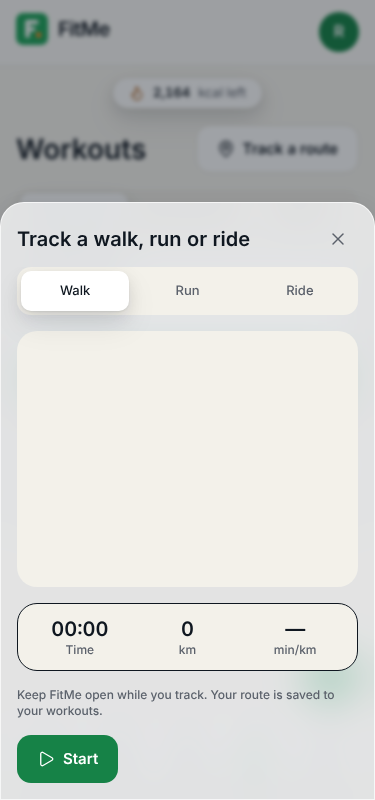
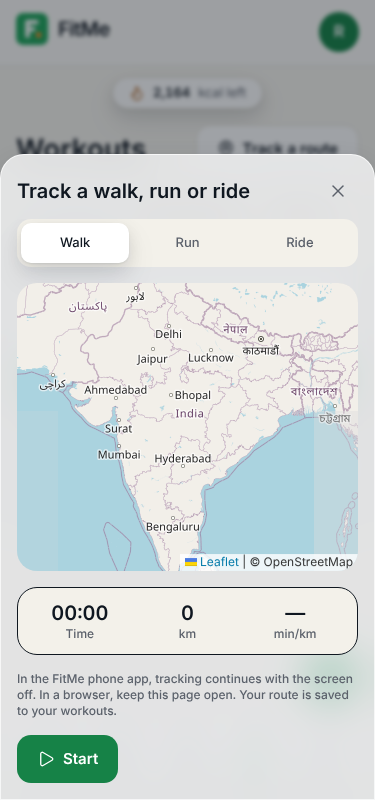
Verification and CI: admin per-role browser check, store screenshots, background-route text, jobs workflow keyless auth, functions deployed one at a time in CI; v4 config migration script
Claude-Session: https://claude.ai/code/session_01SHbAHyHZhLwJXntA7b2gSg

diff --git a/functions/src/scripts/migrate-v4.ts b/functions/src/scripts/migrate-v4.ts
@@ -1,0 +1,67 @@
+/**
+ * v4 config migration (never touches user data, payments or subscriptions):
+ *  - appConfig/pricing: adds tax, payment methods and on/off to each market where missing (prices unchanged).
+ *  - appConfig/policy: created if missing; Free Launch Mode switched on (launch decision), all countries.
+ * Each change is versioned in appConfigVersions and written to adminLogs as "system-migration".
+ * Usage: node lib/scripts/migrate-v4.js --project fit-me1 [--apply]   (without --apply it only prints the diff)
+ */
+import { initializeApp } from 'firebase-admin/app';
+import { FieldValue, getFirestore } from 'firebase-admin/firestore';
+import { DEFAULT_PRICING } from '../billing/billing';
+import { AccessPolicy } from '../lib/policy';
+
+const arg = (n: string) => process.argv.includes(`--${n}`);
+const val = (n: string) => process.argv[process.argv.indexOf(`--${n}`) + 1];
+
+export function migratePricing(current: Record<string, unknown>): { next: Record<string, unknown>; changed: string[] } {
+  const next = JSON.parse(JSON.stringify(current)) as { markets?: Record<string, Record<string, unknown>> };
+  const changed: string[] = [];
+  for (const [key, m] of Object.entries(next.markets ?? {})) {
+    const def = (DEFAULT_PRICING.markets as Record<string, Record<string, unknown>>)[key];
+    for (const field of ['tax', 'methods', 'enabled'] as const) {
+      if (m[field] === undefined) {
+        m[field] = def?.[field] ?? (field === 'enabled' ? true : field === 'tax' ? { name: 'Tax', percent: 0, inclusive: true } : { appStore: true, playStore: true, cashfreeWeb: true });
+        changed.push(`${key}.${field}`);
+      }
+    }
+  }
+  return { next: next as Record<string, unknown>, changed };
+}
+
+async function main() {
+  const project = val('project');
+  if (!project) throw new Error('--project is required');
+  initializeApp({ projectId: project });
+  const db = getFirestore();
+  const apply = arg('apply');
+  const log = (action: string, id: string, before: unknown, after: unknown) =>
+    db.collection('adminLogs').add({ actorUid: 'system-migration', actorRole: 'superAdmin', actorEmail: null, action, targetType: 'appConfig', targetId: id, before, after, note: 'v4 migration', at: FieldValue.serverTimestamp() });
+  const save = async (id: string, before: Record<string, unknown> | null, value: Record<string, unknown>, action: string) => {
+    const version = Number(before?.version ?? 0) + 1;
+    await db.doc(`appConfigVersions/${id}_${String(version).padStart(5, '0')}`).set({ id, version, value, previous: before, by: 'system-migration', at: FieldValue.serverTimestamp() });
+    await db.doc(`appConfig/${id}`).set({ ...value, version, updatedAt: FieldValue.serverTimestamp(), updatedBy: 'system-migration' });
+    await log(action, id, before, value);
+  };
+
+  const p = await db.doc('appConfig/pricing').get();
+  if (p.exists) {
+    const { next, changed } = migratePricing(p.data()!);
+    console.log('pricing: add', changed.length ? changed.join(', ') : 'nothing');
+    if (apply && changed.length) {
+      delete (next as { updatedAt?: unknown }).updatedAt;
+      await save('pricing', p.data()!, next, 'pricing.migrate');
+    }
+  } else console.log('pricing: no document (defaults in code apply; seed with the admin)');
+
+  const pol = await db.doc('appConfig/policy').get();
+  const current = AccessPolicy.parse(pol.data() ?? {});
+  const nextPolicy = { ...current, freeLaunch: { enabled: true, countries: [] } };
+  console.log('policy:', pol.exists ? 'exists' : 'missing', '-> freeLaunch', JSON.stringify(nextPolicy.freeLaunch));
+  if (apply && !current.freeLaunch.enabled) await save('policy', pol.data() ?? null, nextPolicy as unknown as Record<string, unknown>, 'freeLaunch.on');
+  console.log(apply ? 'applied' : 'dry run (add --apply)');
+}
+
+if (require.main === module) main().catch((e) => {
+  console.error(e);
+  process.exit(1);
+});

diff --git a/functions/src/admin/control.ts b/functions/src/admin/control.ts
@@ -1,6 +1,5 @@
 import { onCall, HttpsError, type CallableRequest } from 'firebase-functions/v2/https';
 import { FieldValue, Timestamp, type Query } from 'firebase-admin/firestore';
-import { logger } from 'firebase-functions/v2';
 import { z } from 'zod';
 import { adminAuth, db } from '../lib/admin';
 import { callableOptions } from '../lib/callable';
@@ -430,5 +429,4 @@ action(
   },
 );
 
-logger.debug('admin actions registered', { count: Object.keys(actions).length });
 export const _actionNames = () => Object.keys(actions);
